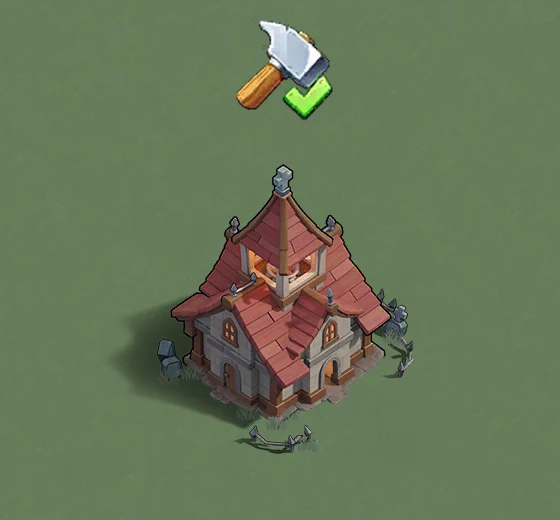
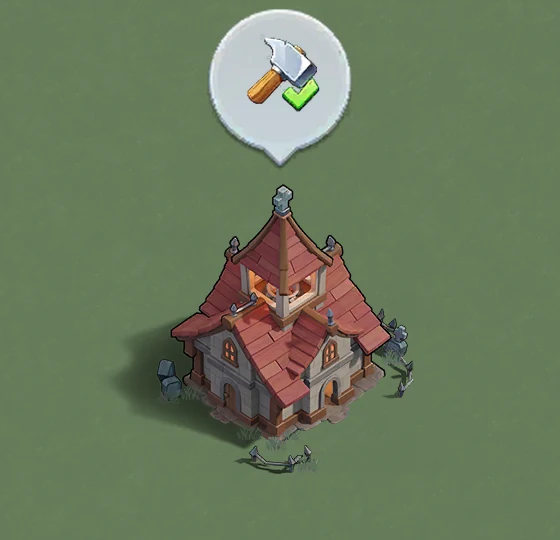
Дуэль: молоток на серой подложке-пузыре, как в игре

Changed region(s): [[0.2429, 0.0, 0.7589, 0.8923]]

diff --git a/duel.html b/duel.html
@@ -181,7 +181,7 @@
       <div class="word"><b>Сколько можно накопить.</b> Новые задания появляются каждые 6 часов, но «в ожидании» может висеть ограниченное число — это уровень твоего сокола. Справа вверху у знака вопроса видно «сколько ждёт / сколько можно». Слева вверху — компас с цифрой, это уровень сокола. Нажми на компас, чтобы увидеть, сколько заданий осталось до следующего уровня.</div>
       <p class="cap">Если лимит забит, новые задания не появятся — лишние лучше забрать, чтобы не пропадали.</p>
       </div></div>
-    <div class="step"><div class="shotwrap"><div class="shot"><img src="assets/shots/hammer.webp" alt="Здание с молотком над крышей — стройка закончена, но не засчитана" loading="lazy"><span class="ring rect" style="left:50%;top:14.4%;width:28%;aspect-ratio:1"></span></div></div>
+    <div class="step"><div class="shotwrap"><div class="shot"><img src="assets/shots/hammer.webp" alt="Здание с молотком над крышей — стройка закончена, но не засчитана" loading="lazy"><span class="ring rect" style="left:50%;top:16.5%;width:28%;aspect-ratio:.88"></span></div></div>
       <div class="body"><h3>«Держать молоток» — что это и как</h3>
       <p>Когда стройка заканчивается, над зданием появляется <b>молоток</b>. Пока ты его не нажал, улучшение не засчитано.</p>
       <p><b>Очки Дуэли дают за нажатие на молоток, а не за конец стройки.</b> Поэтому:</p>

diff --git a/src/duel.html b/src/duel.html
@@ -146,7 +146,7 @@
       <div class="word"><b>Сколько можно накопить.</b> Новые задания появляются каждые 6 часов, но «в ожидании» может висеть ограниченное число — это уровень твоего сокола. Справа вверху у знака вопроса видно «сколько ждёт / сколько можно». Слева вверху — компас с цифрой, это уровень сокола. Нажми на компас, чтобы увидеть, сколько заданий осталось до следующего уровня.</div>
       <p class="cap">Если лимит забит, новые задания не появятся — лишние лучше забрать, чтобы не пропадали.</p>
       </div></div>
-    <div class="step"><div class="shotwrap"><div class="shot"><img src="assets/shots/hammer.webp" alt="Здание с молотком над крышей — стройка закончена, но не засчитана" loading="lazy"><span class="ring rect" style="left:50%;top:14.4%;width:28%;aspect-ratio:1"></span></div></div>
+    <div class="step"><div class="shotwrap"><div class="shot"><img src="assets/shots/hammer.webp" alt="Здание с молотком над крышей — стройка закончена, но не засчитана" loading="lazy"><span class="ring rect" style="left:50%;top:16.5%;width:28%;aspect-ratio:.88"></span></div></div>
       <div class="body"><h3>«Держать молоток» — что это и как</h3>
       <p>Когда стройка заканчивается, над зданием появляется <b>молоток</b>. Пока ты его не нажал, улучшение не засчитано.</p>
       <p><b>Очки Дуэли дают за нажатие на молоток, а не за конец стройки.</b> Поэтому:</p>
